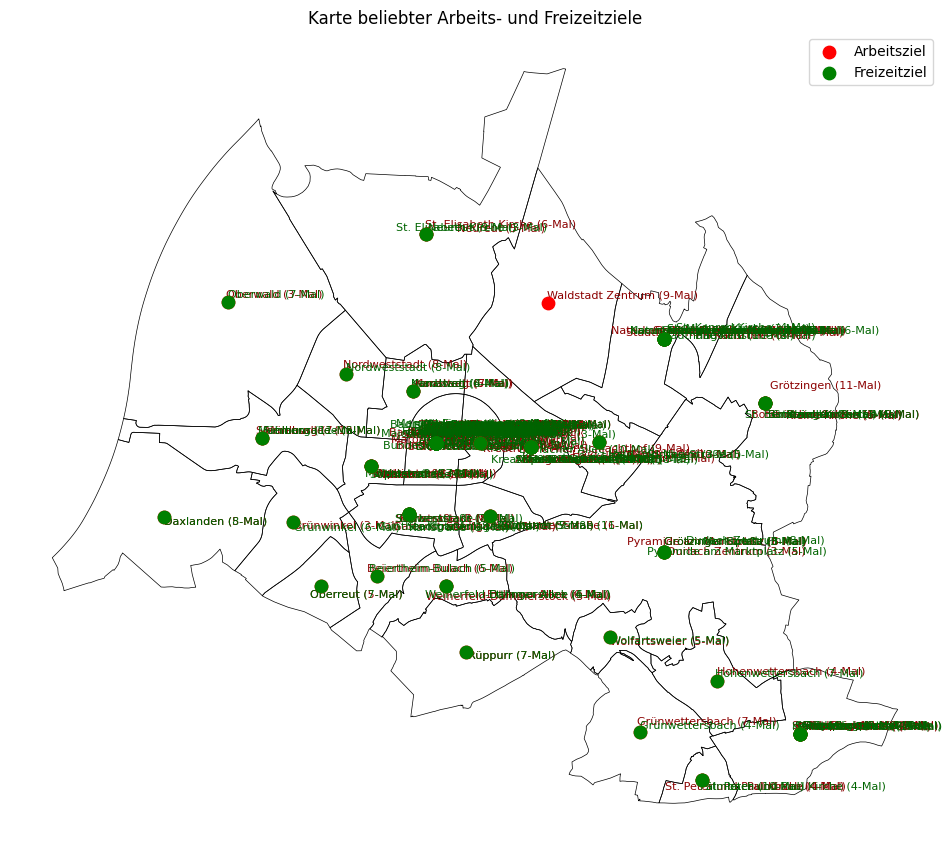
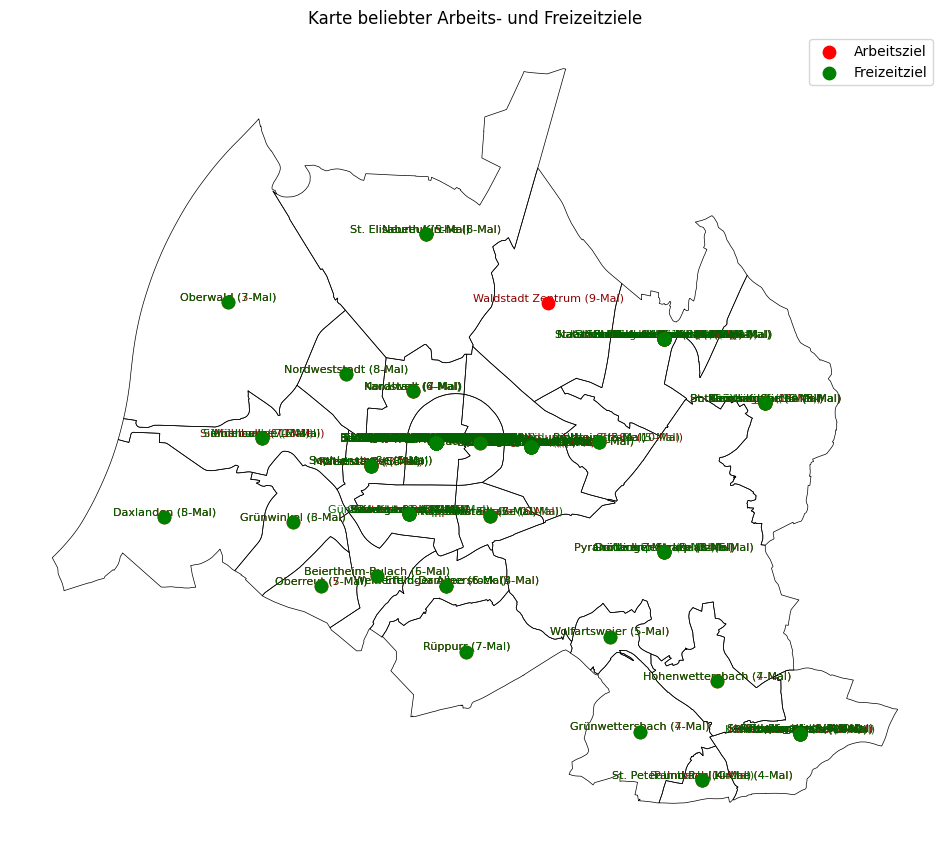
troubleshooting

diff --git a/6_Part 3 Analysis/visualization.py b/6_Part 3 Analysis/visualization.py
@@ -80,32 +80,35 @@ df["Datum"] = df["Startzeit"].dt.date
 # === 1. Stadtteilbeziehungen ===
 df_valid = df.dropna(subset=["Stadtteil Start", "Stadtteil Ziel"])
 weg_counts = (
-    df_valid.groupby(["Stadtteil Start", "Stadtteil Ziel"]).size().reset_index(name="Anzahl Wege").sort_values(by="Anzahl Wege", ascending=False)
+    df_valid.groupby(["Stadtteil Start", "Stadtteil Ziel"])
+    .size()
+    .reset_index(name="Anzahl Wege")
+    .sort_values(by="Anzahl Wege", ascending=False)
 )
 mask_häufig = weg_counts["Anzahl Wege"] >= 20
 weg_counts_häufig = weg_counts[mask_häufig]
 weg_counts_selten = weg_counts[~mask_häufig]
 restliche_wege_anzahl = weg_counts_selten["Anzahl Wege"].sum()
+
 output_df = weg_counts_häufig.copy()
 if restliche_wege_anzahl > 0:
     output_df = pd.concat(
         [
             output_df,
-            pd.DataFrame(
-                {
-                    "Stadtteil Start": ["Restliche Wege"],
-                    "Stadtteil Ziel": [""],
-                    "Anzahl Wege": [restliche_wege_anzahl],
-                }
-            ),
+            pd.DataFrame({
+                "Stadtteil Start": ["Restliche Wege"],
+                "Stadtteil Ziel": [""],
+                "Anzahl Wege": [restliche_wege_anzahl],
+            }),
         ],
         ignore_index=True,
     )
+
 output_df.to_csv(OUTPUT_CSV_PATH, index=False, encoding="utf-8-sig")
 output_df.to_excel(OUTPUT_XLSX_PATH, index=False)
 format_excel(OUTPUT_XLSX_PATH)
 
-# === Shapefile laden ===
+# === 1.1 Heatmap der Stadtteilbeziehungen ===
 try:
     gdf = gpd.read_file(SHAPEFILE_PATH)
 except Exception as e:
@@ -113,7 +116,7 @@ except Exception as e:
     gdf = None
 
 if gdf is not None:
-    # Spalte mit Stadtteilnamen ermitteln
+    # Stadtteilnamen und Zentroiden bestimmen
     string_cols = gdf.select_dtypes(include=["object"]).columns.tolist()
     name_col_candidates = [c for c in string_cols if "name" in c.lower() or "stadtteil" in c.lower()]
     name_col = name_col_candidates[0] if name_col_candidates else string_cols[0]
@@ -121,76 +124,75 @@ if gdf is not None:
     gdf["centroid"] = gdf.geometry.centroid
     centroid_dict = dict(zip(gdf["district_name"], gdf["centroid"]))
 
-    # === 1.1 Heatmap der Stadtteilbeziehungen ===
+    # Stadtteilbeziehungen einlesen
     rel_df = output_df.query("`Stadtteil Start` != 'Restliche Wege' and `Stadtteil Ziel` != ''")
     if not rel_df.empty:
         flow_start = rel_df.groupby("Stadtteil Start")["Anzahl Wege"].sum()
         flow_target = rel_df.groupby("Stadtteil Ziel")["Anzahl Wege"].sum()
-        gdf["flow_sum"] = (
-            gdf["district_name"].map(flow_start.add(flow_target, fill_value=0)).fillna(0)
-        )
+        gdf["flow_sum"] = gdf["district_name"].map(flow_start.add(flow_target, fill_value=0)).fillna(0)
         max_count = rel_df["Anzahl Wege"].max()
+
         fig, ax = plt.subplots(figsize=(12, 12))
         gdf.plot(ax=ax, column="flow_sum", cmap="Reds", edgecolor="black", linewidth=0.5)
+
         for _, row in rel_df.iterrows():
-            s, t, c = row["Stadtteil Start"], row["Stadtteil Ziel"], row["Anzahl Wege"]
-            if s in centroid_dict and t in centroid_dict:
-                x0, y0 = centroid_dict[s].x, centroid_dict[s].y
-                x1, y1 = centroid_dict[t].x, centroid_dict[t].y
-                width = 1 + (c / max_count) * 8
+            start = row["Stadtteil Start"]
+            ziel = row["Stadtteil Ziel"]
+            count = row["Anzahl Wege"]
+            if start in centroid_dict and ziel in centroid_dict:
+                x0, y0 = centroid_dict[start].x, centroid_dict[start].y
+                x1, y1 = centroid_dict[ziel].x, centroid_dict[ziel].y
+                width = 1 + (count / max_count) * 8
                 ax.annotate(
                     "",
                     xy=(x1, y1),
                     xytext=(x0, y0),
                     arrowprops=dict(arrowstyle="->", color="darkred", linewidth=width, alpha=0.7),
                 )
+
         for _, row in gdf.iterrows():
             ax.text(row["centroid"].x, row["centroid"].y, row["district_name"], ha="center", fontsize=8)
+
         ax.set_title("Heatmap der Stadtteilbeziehungen in Karlsruhe")
         ax.axis("off")
         plt.savefig(HEATMAP_STADTBEZIEHUNGEN_PATH, bbox_inches="tight")
         plt.close()
 
-    # === 1.2 Karte beliebter Arbeits- und Freizeitziele ===
-    def get_popular(df_sub):
-        counts = df_sub["Zielort"].value_counts()
-        return counts[counts >= 3]
+# === 1.2 Karte beliebter Arbeits- und Freizeitziele ===
+def get_popular(df_sub):
+    counts = df_sub["Zielort"].value_counts()
+    return counts[counts >= 3]
 
-    arbeit_pop = get_popular(df.query("Zweck == 'Arbeit' and Zielort.notna() and `Stadtteil Ziel`.notna()"))
-    frei_pop = get_popular(
-        df.query("Zweck == 'Freizeit' and Zielort.notna() and `Stadtteil Ziel`.notna()")
-    )
+arbeit_pop = get_popular(df.query("Zweck == 'Arbeit' and Zielort.notna() and `Stadtteil Ziel`.notna()"))
+frei_pop = get_popular(df.query("Zweck == 'Freizeit' and Zielort.notna() and `Stadtteil Ziel`.notna()"))
 
-    if arbeit_pop.empty and frei_pop.empty:
-        print("ℹ Keine häufigen Arbeits- oder Freizeitziele gefunden.")
-    else:
-        fig, ax = plt.subplots(figsize=(12, 12))
-        gdf.plot(ax=ax, facecolor="none", edgecolor="black", linewidth=0.5)
+if arbeit_pop.empty and frei_pop.empty:
+    print("ℹ Keine häufigen Arbeits- oder Freizeitziele gefunden.")
+else:
+    fig2, ax2 = plt.subplots(figsize=(12, 12))
+    gdf.plot(ax=ax2, facecolor="none", edgecolor="black", linewidth=0.5)
 
-        texts = []
-        # Arbeitsziele
-        for ziel, cnt in arbeit_pop.items():
-            district = df.loc[df["Zielort"] == ziel, "Stadtteil Ziel"].iloc[0]
-            if district in centroid_dict:
-                pt = centroid_dict[district]
-                ax.scatter(pt.x, pt.y, color="red", s=80, label="Arbeitsziel" if "Arbeitsziel" not in ax.get_legend_handles_labels()[1] else "", zorder=5)
-                texts.append(ax.text(pt.x, pt.y, f"{ziel} ({int(cnt)}-Mal)", fontsize=8, color="darkred"))
+    # Arbeitsziele
+    for ziel, cnt in arbeit_pop.items():
+        district = df.loc[df["Zielort"] == ziel, "Stadtteil Ziel"].iloc[0]
+        if district in centroid_dict:
+            pt = centroid_dict[district]
+            ax2.scatter(pt.x, pt.y, color="red", s=80, label="Arbeitsziel" if "Arbeitsziel" not in ax2.get_legend_handles_labels()[1] else "", zorder=5)
+            ax2.text(pt.x, pt.y, f"{ziel} ({int(cnt)}-Mal)", fontsize=8, color="darkred", ha='center', va='bottom')
 
-        # Freizeitziele
-        for ziel, cnt in frei_pop.items():
-            district = df.loc[df["Zielort"] == ziel, "Stadtteil Ziel"].iloc[0]
-            if district in centroid_dict:
-                pt = centroid_dict[district]
-                ax.scatter(pt.x, pt.y, color="green", s=80, label="Freizeitziel" if "Freizeitziel" not in ax.get_legend_handles_labels()[1] else "", zorder=5)
-                texts.append(ax.text(pt.x, pt.y, f"{ziel} ({int(cnt)}-Mal)", fontsize=8, color="darkgreen"))
+    # Freizeitziele
+    for ziel, cnt in frei_pop.items():
+        district = df.loc[df["Zielort"] == ziel, "Stadtteil Ziel"].iloc[0]
+        if district in centroid_dict:
+            pt = centroid_dict[district]
+            ax2.scatter(pt.x, pt.y, color="green", s=80, label="Freizeitziel" if "Freizeitziel" not in ax2.get_legend_handles_labels()[1] else "", zorder=5)
+            ax2.text(pt.x, pt.y, f"{ziel} ({int(cnt)}-Mal)", fontsize=8, color="darkgreen", ha='center', va='bottom')
 
-        adjust_text(texts)
-
-        ax.legend(loc="upper right")
-        ax.set_title("Karte beliebter Arbeits- und Freizeitziele")
-        ax.axis("off")
-        plt.savefig(HEATMAP_ZIELE_PATH, bbox_inches="tight")
-        plt.close()
+    ax2.legend(loc="upper right")
+    ax2.set_title("Karte beliebter Arbeits- und Freizeitziele")
+    ax2.axis("off")
+    plt.savefig(HEATMAP_ZIELE_PATH, bbox_inches="tight")
+    plt.close()
 
 # === 2. Stadtteile-Ranking ===
 start_ranking = df_valid["Stadtteil Start"].value_counts().reset_index()
